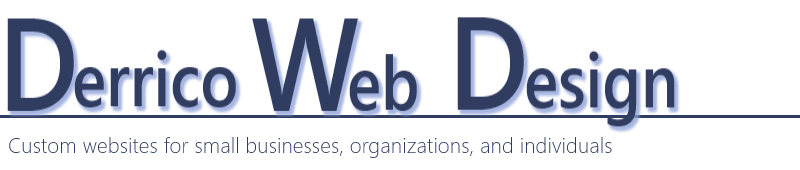
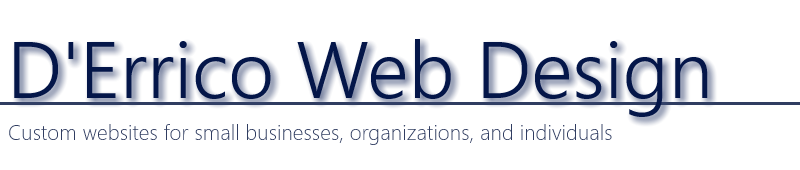
Finished gallery widget
Re-wrote code for gallery widget using jQuery.  Completed the gallery
widget by adding the thumbnail scroller at the bottom.

diff --git a/index.html b/index.html
@@ -1,7 +1,7 @@
 <!DOCTYPE html>
 <html>
 	<head>
-		<title>Derrico Web Design - Custom Websites for Small Businesses, Organizations, and Individuals</title>
+		<title>D'Errico Web Design - Custom Websites for Small Businesses, Organizations, and Individuals</title>
 		<link rel="stylesheet" type="text/css" href="stylesheet.css"/>
 	</head>
 	<body>
@@ -23,19 +23,19 @@
 				</div>
 			</div>
 			<div id="content">
-				<h1>Welcome to Derrico Web Design</h1>
+				<h1>Welcome to D'Errico Web Design</h1>
 				
 				<img src="img/internet.jpg" class="articleInset"/>
 				
-				<p>Welcome to Derrico Web Design, your source for a completely-customizable website experience.</p>
+				<p>Welcome to D'Errico Web Design, your source for a completely-customizable website experience.</p>
 				
-				<p>Want to start a blog?  Are you part of an organization that needs a website?  Do you want more exposure for your small business?  Do you want to establish a web presence for yourself?  You've probably realized that there are several of tools out there that will allow you to do these things.  However, these tools do not offer what Derrico Web Design can offer.
+				<p>Want to start a blog?  Are you part of an organization that needs a website?  Do you want more exposure for your small business?  Do you want to establish a web presence for yourself?  You've probably realized that there are several of tools out there that will allow you to do these things.  However, these tools do not offer what D'Errico Web Design can offer.
 				
-				<h2>Why Derrico Web Design?</h2>
+				<h2>Why D'Errico Web Design?</h2>
 				
-				<p>Sure, these tools may allow you to quickly create a site and get it up-and-running, but they lack the flexibility and customization that you need.  Generally, you are limited to a set of mediocre templates and designs.  You may get stuck with banner ads and water marks.  Want some customization?  You'll have to dig through pages and pages of code.  Why deal with the code when Derrico Web Design can handle it for you?</p>
+				<p>Sure, these tools may allow you to quickly create a site and get it up-and-running, but they lack the flexibility and customization that you need.  Generally, you are limited to a set of mediocre templates and designs.  You may get stuck with banner ads and water marks.  Want some customization?  You'll have to dig through pages and pages of code.  Why deal with the code when D'Errico Web Design can handle it for you?</p>
 				
-				<p>Here's what Derrico Web Design can create for you:</p>
+				<p>Here's what D'Errico Web Design can create for you:</p>
 				
 				<ul>
 					<li>Fully customized blog templates</li>
@@ -47,18 +47,18 @@
 					<li>And much more</li>
 				</ul>
 				
-				<p>Best of all, with Derrico Web Design, <strong>YOU</strong> are in control.  Have a particular design in mind as a starting point?  Want to manage the content yourself?  Need the site updated frequently?  This is all possible with Derrico Web Design.  You have as little or as much input into your site as possible.</p>
+				<p>Best of all, with D'Errico Web Design, <strong>YOU</strong> are in control.  Have a particular design in mind as a starting point?  Want to manage the content yourself?  Need the site updated frequently?  This is all possible with D'Errico Web Design.  You have as little or as much input into your site as possible.</p>
 				
 				<h2>Still not convinced?</h2>
 				
-				<p>Read more about Derrico Web Design on the <a href="about.html">About</a> page, or check out some <a href="projects.html">Current Projects.</a></p>
+				<p>Read more about D'Errico Web Design on the <a href="about.html">About</a> page, or check out some <a href="projects.html">Current Projects.</a></p>
 				
 				<h2>Ready to get started?</h2>
 				
 				<p>Visit the <a href="contact.php">Contact</a> page to send us an e-mail.</p>
 			</div>
 			<div id="footer">
-				<p>Copyright &copy 2014 Derrico Web Design</p>
+				<p>Copyright &copy 2014 D'Errico Web Design</p>
 			</div>
 		</div>
 	</body>

diff --git a/projects.html b/projects.html
@@ -1,7 +1,7 @@
 <!DOCTYPE html>
 <html>
 	<head>
-		<title>Derrico Web Design - Custom Websites for Small Businesses, Organizations, and Individuals</title>
+		<title>D'Errico Web Design - Custom Websites for Small Businesses, Organizations, and Individuals</title>
 		
 		<link rel="stylesheet" type="text/css" href="stylesheet.css"/>
 		
@@ -23,14 +23,11 @@
 			function load(thumbId) {
 				
 				//resets opacity to 0.5 on all thumbnails
-				var thumbs = document.getElementsByClassName("thumb")
-				for (var i=0; i < thumbs.length; i++) {
-					thumbs[i].style.opacity="0.5";
-				}
+				$(".thumb").css("opacity","0.5");
 				
 				//sets opacity to 1 for the selected thumbnail
-				document.getElementById("tid" + thumbId).style.opacity="1";
-				
+				$("#tid" + thumbId).css("opacity","1");
+	
 				//selects the correct site object based on the thumbnail clicked
 				switch (thumbId) {
 					case 0:
@@ -45,12 +42,11 @@
 				}
 				
 				//reads data from the site object and inserts into html
-				document.getElementById("galTitle").innerHTML = site.title;
-				document.getElementById("galImageLink").href = site.url;
-				document.getElementById("galImage").src = site.imgurl;
-				document.getElementById("galURL").href = site.url;
-				document.getElementById("galURL").innerHTML = site.dispurl;
-				document.getElementById("galDesc").innerHTML = site.desc;
+				$("#galTitle").text(site.title);
+				$("#galImageLink").attr("href",site.url);
+				$("#galImage").attr("src",site.imgurl);
+				$("#galURL").attr("href",site.url).text(site.dispurl);
+				$("#galDesc").text(site.desc);
 			}
 			
 			//sets site objects
@@ -76,6 +72,26 @@
 				"img/laura.png",
 				"This site is an information hub for a high school language arts teacher.");
 			
+			//jquery functions for scrolling the thumbnails
+			$(document).ready(function() {
+				
+				//computes limit for scrolling thumbs
+				var limit = $("#galThumbSlider").width() - 550;
+				var offset = 0; //change in movement of the thumb slider
+				
+				$("#galScrollLeft").click(function() {
+					if (offset > 0) {
+						$("#galThumbSlider").animate({left:'+=160px'});
+						offset -= 160;
+					}
+				});
+				$("#galScrollRight").click(function() {
+					if (offset < limit) {
+						$("#galThumbSlider").animate({left:'-=160px'});
+						offset += 160;
+					}
+				});
+			});
 			
 		</script>
 		
@@ -112,20 +128,26 @@
 						</p>
 					</div>
 					<div id="galControl">
-						<div id="galScrollLeft" class="scroller"><
-						</div>
+						<button type="button" id="galScrollLeft" class="scroller"><
+						</button>
 						<div id="galThumbs">
-							<img onclick="load(0)" id="tid0" class="thumb" src="img/rrand.png"/>
-							<img onclick="load(1)" id="tid1" class="thumb" src="img/bth.png"/>
-							<img onclick="load(2)" id="tid2" class="thumb" src="img/laura.png"/>
+							<div id="galThumbSlider">
+								<img onclick="load(0)" id="tid0" class="thumb" src="img/rrand.png"/>
+								<img onclick="load(1)" id="tid1" class="thumb" src="img/bth.png"/>
+								<img onclick="load(2)" id="tid2" class="thumb" src="img/laura.png"/>
+								<img src="img/placeholder.png"/>
+								<img src="img/placeholder.png"/>
+								<img src="img/placeholder.png"/>
+								<img src="img/placeholder.png"/>
+							</div>
 						</div>
-						<div id="galScrollRight" class="scroller">>
-						</div>
+						<button type="button" id="galScrollRight" class="scroller">>
+						</button>
 					</div>
 				</div>
 			</div>
 			<div id="footer">
-				<p>Copyright &copy 2014 Derrico Web Design</p>
+				<p>Copyright &copy 2014 D'Errico Web Design</p>
 			</div>
 		</div>
 		

diff --git a/about.html b/about.html
@@ -1,7 +1,7 @@
 <!DOCTYPE html>
 <html>
 	<head>
-		<title>Derrico Web Design - Custom Websites for Small Businesses, Organizations, and Individuals</title>
+		<title>D'Errico Web Design - Custom Websites for Small Businesses, Organizations, and Individuals</title>
 		<link rel="stylesheet" type="text/css" href="stylesheet.css"/>
 	</head>
 	<body>
@@ -28,9 +28,9 @@
 				
 				<img src="img/me.jpg" class="articleInset"/>
 				
-				<p>Your site will be personally designed by me, Bob D'Errico.  I have experience in creating websites utilizing standard web technologies such as HTML5, CSS3, JavaScript, jQuery, and PHP.  I have an "eye for design," and will be able to build you a site that is rich in both form and function.  My detail-oriented approach will be with our every step of the way to ensure the site you want is the site you get.
+				<p>Your site will be personally designed by me, Bob D'Errico.  I have experience in creating websites utilizing standard web technologies such as HTML5, CSS3, JavaScript, jQuery, and PHP.  I have an eye for design, and will be able to build you a site that is rich in both form and function.  My detail-oriented approach will be with our every step of the way to ensure the site you want is the site you get.
 				
-				<h1>The Derrico Web Design Process</h1>
+				<h1>The D'Errico Web Design Process</h1>
 				
 				<p>To begin creating your website, <a href="contact.php">contact me.</a>  I will then get in touch with you to discuss your specific needs.  
 				
@@ -45,7 +45,7 @@
 				<p>After your site has been created, I will continue to work with you to keep your site up-to-date.</p>
 			</div>
 			<div id="footer">
-				<p>Copyright &copy 2014 Derrico Web Design</p>
+				<p>Copyright &copy 2014 D'Errico Web Design</p>
 			</div>
 		</div>
 	</body>

diff --git a/stylesheet.css b/stylesheet.css
@@ -182,17 +182,19 @@ a:hover {
 
 #galScrollLeft {
 	width:20px;
-	height:125px;
+	height:124px;
 	margin:0px;
 	position:absolute;
 	text-align:center;
-	font-size:2em;
+	font-size:1.5em;
 	line-height:115px;
+	background-color:#E8EEFF;
+	border:0px;
+	outline:0px;
 }
 
-.scroller:hover {
+button.scroller:hover {
 	color:white;
-	background-color:#7392E6;
 }
 
 #galThumbs {
@@ -200,29 +202,40 @@ a:hover {
 	margin:0px;
 	height:125px;
 	position:absolute;
-	left:25px;
 	text-align:center;
+	left:25px;
+	overflow:hidden;
 }
 
 #galThumbs img {
 	height:115px;
 	margin-top:5px;
 	opacity:0.5;
+	position:relative;
 }
 
 #galThumbs img:hover {
 	outline: 1px solid #7392E6;
 }
 
+#galThumbSlider {
+	position:relative;
+	display:inline-block;
+	white-space:nowrap;
+}
+
 #galScrollRight {
 	width:20px;
-	height:125px;
+	height:124px;
 	margin:0px;
 	position:absolute;
 	left:580px;
 	text-align:center;
-	font-size:2em;
+	font-size:1.5em;
 	line-height:115px;
+	background-color:#E8EEFF;
+	border:0px;
+	outline:0px;
 }
 
 #footer {

diff --git a/contact.php b/contact.php
@@ -1,7 +1,7 @@
 <!DOCTYPE html>
 <html>
 	<head>
-		<title>Derrico Web Design - Custom Websites for Small Businesses, Organizations, and Individuals</title>
+		<title>D'Errico Web Design - Custom Websites for Small Businesses, Organizations, and Individuals</title>
 		<link rel="stylesheet" type="text/css" href="stylesheet.css"/>
 	</head>
 	<body>
@@ -25,7 +25,7 @@
 			<div id="content">
 			</div>
 			<div id="footer">
-				<p>Copyright &copy 2014 Derrico Web Design</p>
+				<p>Copyright &copy 2014 D'Errico Web Design</p>
 			</div>
 		</div>
 	</body>
